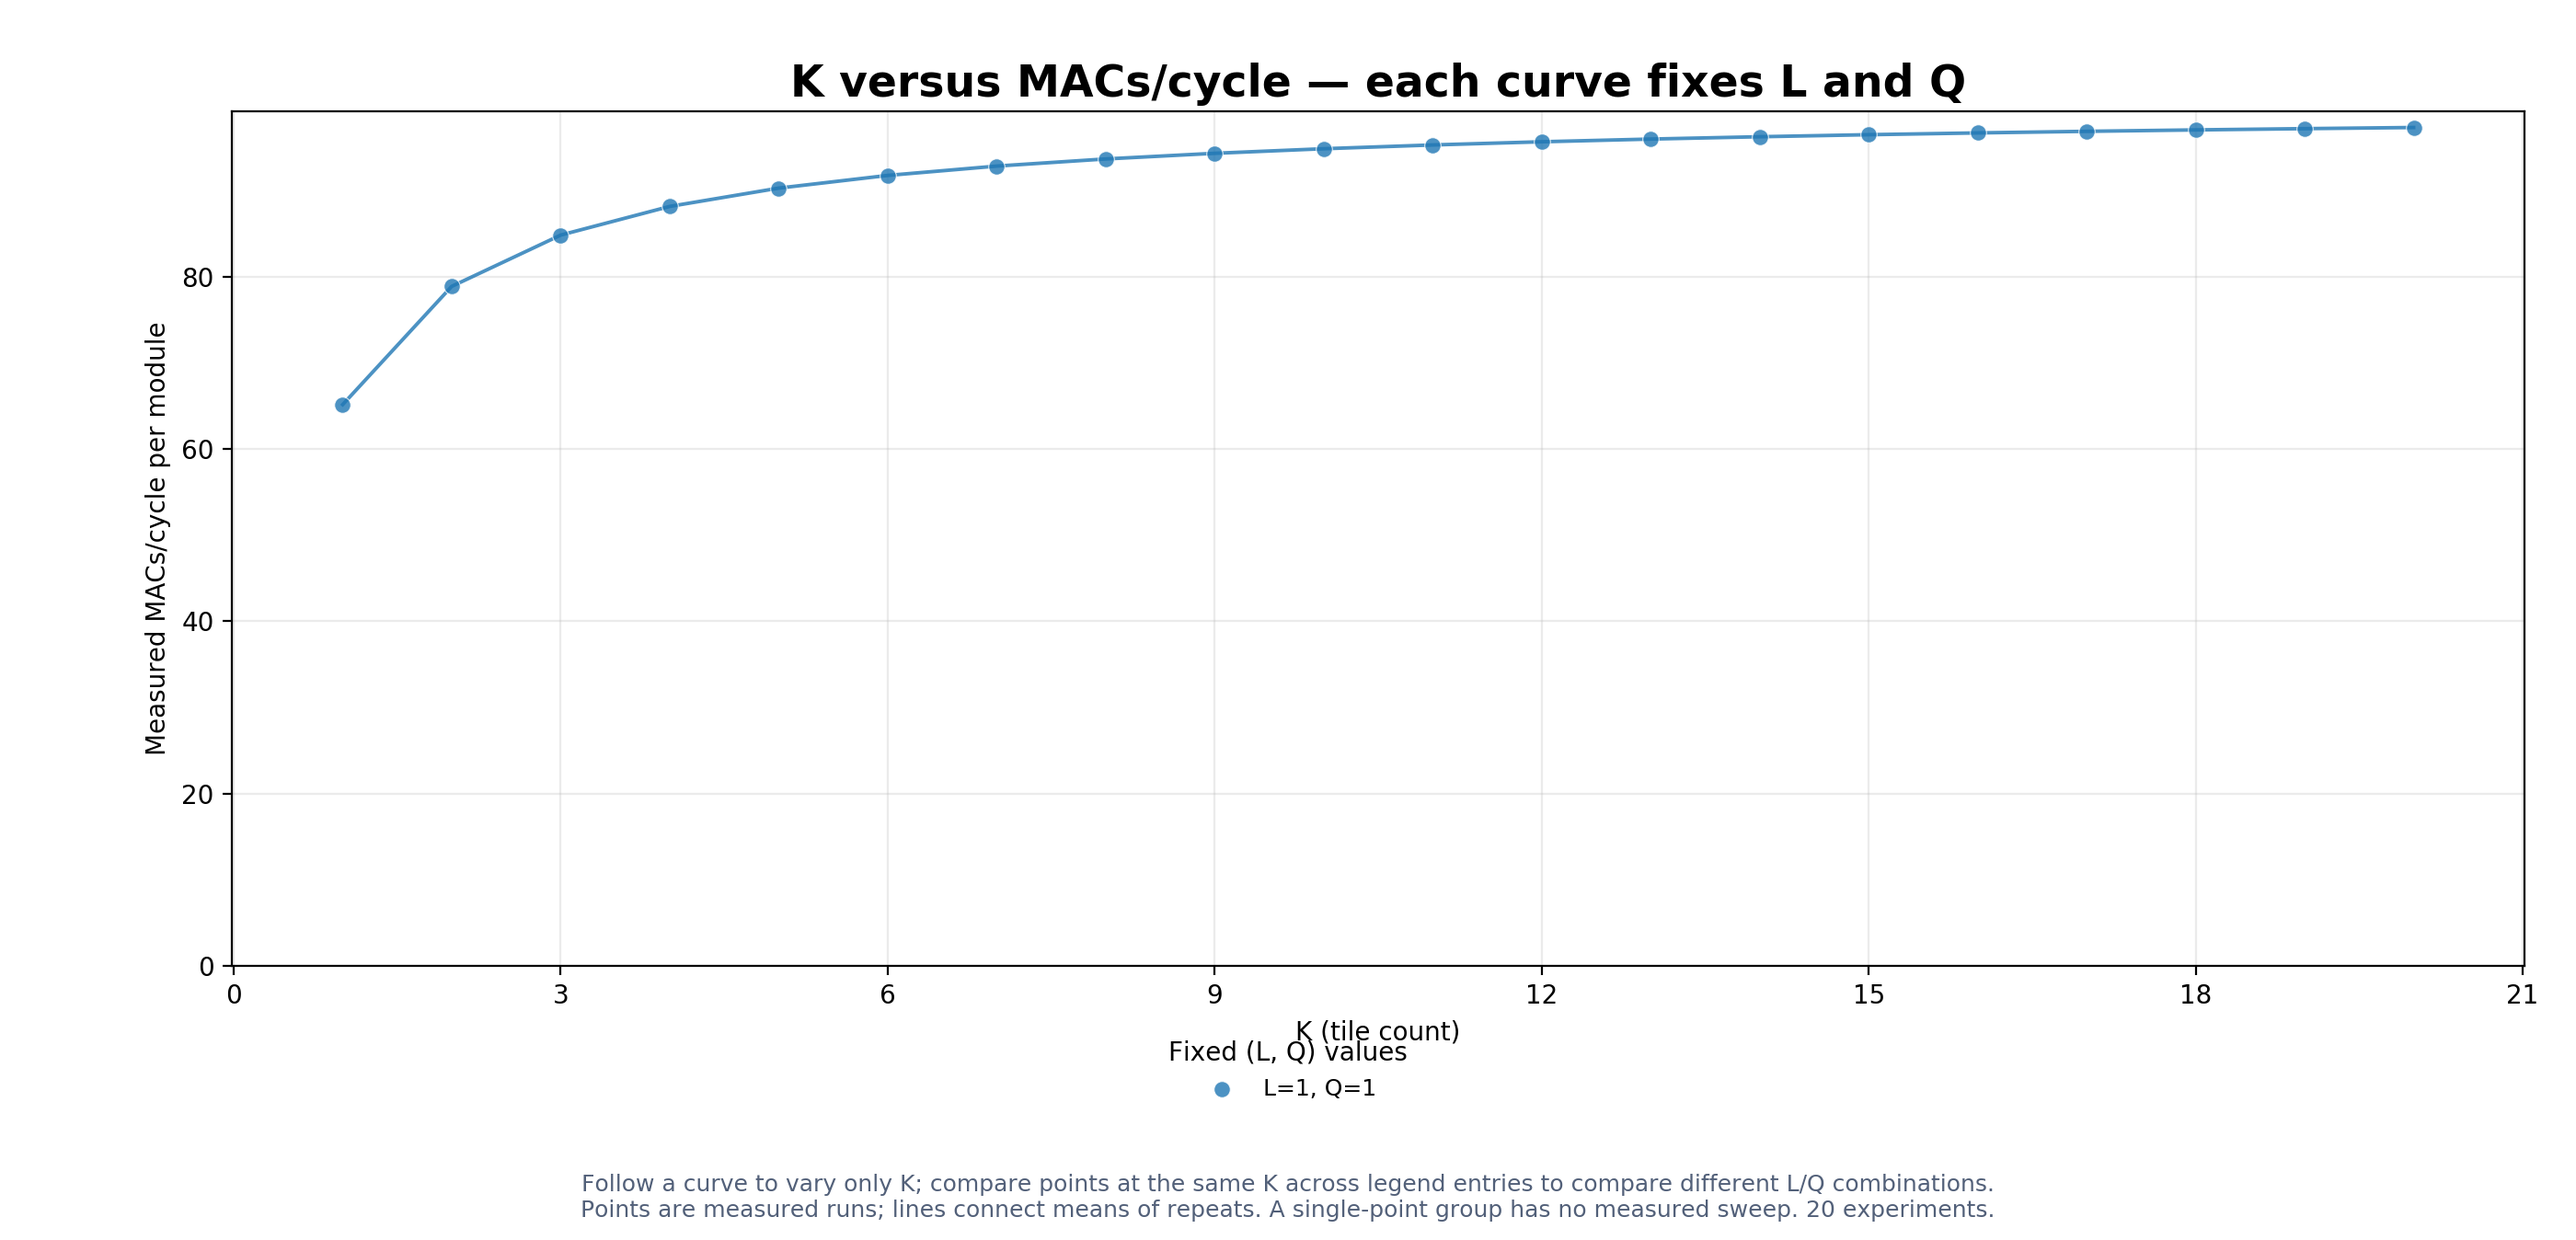
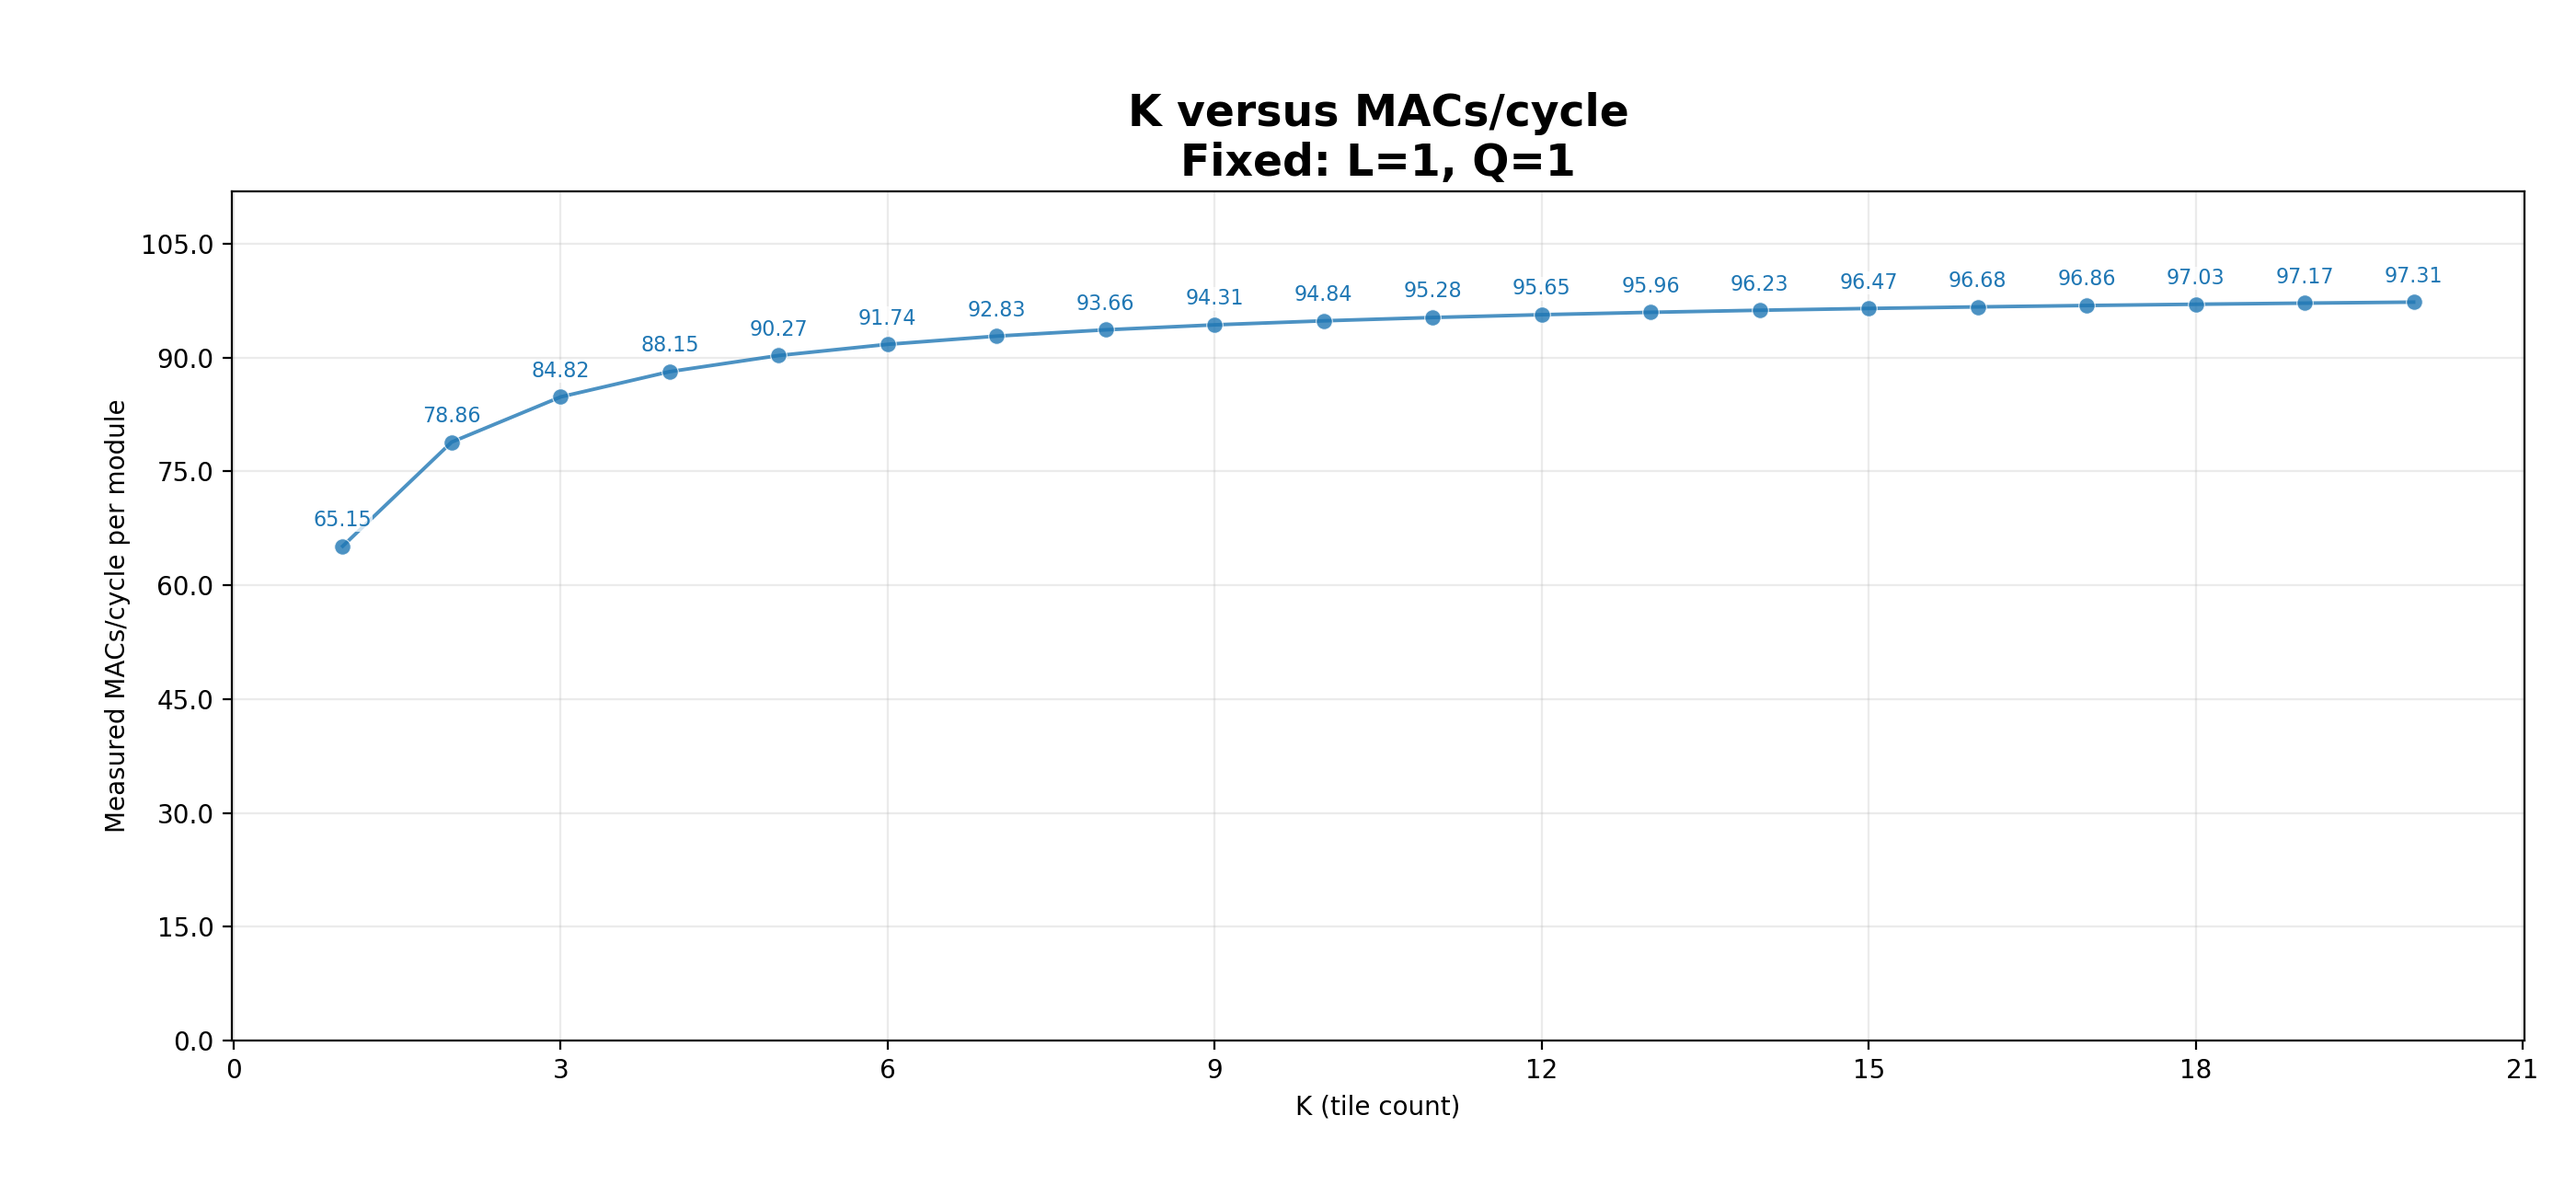
update readme file

diff --git a/timing_analysis/run_experiments.py b/timing_analysis/run_experiments.py
@@ -77,7 +77,7 @@ def plot_results(csv_path, output):
     import matplotlib
     matplotlib.use("Agg")
     import matplotlib.pyplot as plt
-    from matplotlib.ticker import MaxNLocator
+    from matplotlib.ticker import MaxNLocator, FormatStrFormatter
 
     with Path(csv_path).open(newline="") as source:
         reader = csv.DictReader(source)
@@ -104,11 +104,7 @@ def plot_results(csv_path, output):
         groups = defaultdict(list)
         for row in selected_rows:
             groups[tuple(row[name] for name in fixed)].append(row)
-        legend_columns = min(4, max(1, len(groups)))
-        legend_rows = (len(groups) + legend_columns - 1) // legend_columns
-        legend_height = legend_rows * 0.24
-        height = 6.5 + legend_height
-        fig, ax = plt.subplots(figsize=(14, height))
+        fig, ax = plt.subplots(figsize=(14, 6.5))
         palette = plt.get_cmap("tab20")
         if not selected_rows:
             ax.text(0.5, 0.5, "No completed experiments with {}=1 and {}=1".format(
@@ -133,26 +129,23 @@ def plot_results(csv_path, output):
                         color=color, linestyle=style, linewidth=1.4, alpha=0.8)
             ax.scatter(x_values, throughput, s=40, color=color, marker=marker,
                        alpha=0.8, edgecolors="white", linewidths=0.4, label=label, zorder=3)
+            for x_value, rate in zip(x_values, throughput):
+                ax.annotate("{:.2f}".format(rate), (x_value, rate), xytext=(0, 6),
+                            textcoords="offset points", ha="center", va="bottom",
+                            fontsize=8, color=color,
+                            bbox=dict(facecolor="white", edgecolor="none", alpha=0.75, pad=0.4))
         ax.set_xlabel("{} (tile count)".format(dimension.upper()))
         ax.set_ylabel("Measured MACs/cycle per module")
-        ax.set_title("{} versus MACs/cycle — each curve fixes {} and {}".format(
+        ax.set_title("{} versus MACs/cycle\nFixed: {}=1, {}=1".format(
             dimension.upper(), fixed[0].upper(), fixed[1].upper()), fontsize=17, weight="bold")
         ax.xaxis.set_major_locator(MaxNLocator(integer=True))
-        ax.set_ylim(bottom=0)
+        ax.yaxis.set_major_locator(MaxNLocator(nbins=8))
+        ax.yaxis.set_major_formatter(FormatStrFormatter("%.1f"))
+        ax.set_ylim(0, max((row["macs_per_module"] / row["elapsed_cycles"]
+                           for row in selected_rows), default=1) * 1.15)
         ax.grid(alpha=0.25)
         ax.set_axisbelow(True)
-        handles, labels = ax.get_legend_handles_labels()
-        fig.legend(handles, labels, loc="lower center", bbox_to_anchor=(0.5, 0.65 / height),
-                   ncol=legend_columns, fontsize=9, frameon=False,
-                   title="Fixed ({}, {}) values".format(fixed[0].upper(), fixed[1].upper()))
-        note = ("Follow a curve to vary only {0}; compare points at the same {0} across legend entries "
-                "to compare different {1}/{2} combinations.\n"
-                "Points are measured runs; lines connect means of repeats. "
-                "A single-point group has no measured sweep. {3} experiments.").format(
-                    dimension.upper(), fixed[0].upper(), fixed[1].upper(), len(selected_rows))
-        fig.text(0.5, 0.015, note, ha="center", va="bottom", fontsize=9, color="#526079")
-        fig.subplots_adjust(left=0.09, right=0.98, top=0.91,
-                            bottom=(legend_height + 1.25) / height)
+        fig.subplots_adjust(left=0.09, right=0.98, top=0.84, bottom=0.13)
         fig.savefig(str(destination), dpi=200, facecolor="white")
         plt.close(fig)
     fig, ax = plt.subplots(figsize=(11, 6))
@@ -163,6 +156,7 @@ def plot_results(csv_path, output):
         ("l", "#0d9488", "--", 3.2, "s", 8, 4),
         ("q", "#ea580c", ":", 1.8, "^", 4.5, 5),
     )
+    label_offsets = {"k": 12, "l": 24, "q": -12}
     for dimension, color, style, width, marker, marker_size, order in sweep_styles:
         fixed = tuple(name for name in dimensions if name != dimension)
         experiments = [row for row in rows if all(row[name] == 1 for name in fixed)]
@@ -182,24 +176,34 @@ def plot_results(csv_path, output):
                     dimension.upper(), fixed[0].upper(), fixed[1].upper()))
         ax.scatter(sizes, rates, edgecolors=color, facecolors="none", marker=marker,
                    s=marker_size ** 2, linewidths=1.4, zorder=order + 0.1)
+        for size, rate in zip(sizes, rates):
+            ax.annotate("{:.2f}".format(rate), (size, rate),
+                        xytext=(0, label_offsets[dimension]), textcoords="offset points",
+                        ha="center", va="center", fontsize=7, color=color,
+                        bbox=dict(facecolor="white", edgecolor="none", alpha=0.75, pad=0.3))
     # Keep older/custom CSV combinations visible without connecting unrelated runs.
     mixed = [row for row in rows if sum(row[name] != 1 for name in dimensions) > 1]
     if mixed:
-        ax.scatter([row["k"] * row["l"] * row["q"] for row in mixed],
-                   [row["macs_per_module"] / row["elapsed_cycles"] for row in mixed],
+        mixed_sizes = [row["k"] * row["l"] * row["q"] for row in mixed]
+        mixed_rates = [row["macs_per_module"] / row["elapsed_cycles"] for row in mixed]
+        ax.scatter(mixed_sizes, mixed_rates,
                    color="#64748b", marker="x", label="Other combinations")
+        for size, rate in zip(mixed_sizes, mixed_rates):
+            ax.annotate("{:.2f}".format(rate), (size, rate), xytext=(0, 8),
+                        textcoords="offset points", ha="center", va="bottom",
+                        fontsize=7, color="#64748b")
     ax.set_xlabel("Workload size (K × L × Q)")
     ax.set_ylabel("Measured MACs/cycle per module")
     ax.set_title("K × L × Q versus MACs/cycle", fontsize=17, weight="bold")
     ax.xaxis.set_major_locator(MaxNLocator(integer=True))
-    ax.set_ylim(bottom=0)
+    ax.yaxis.set_major_locator(MaxNLocator(nbins=8))
+    ax.yaxis.set_major_formatter(FormatStrFormatter("%.1f"))
+    all_rates = [row["macs_per_module"] / row["elapsed_cycles"] for row in rows]
+    ax.set_ylim(0, max(all_rates, default=1) * 1.15)
     ax.grid(alpha=0.25)
     ax.set_axisbelow(True)
     ax.legend(handlelength=4)
-    fig.text(0.5, 0.025, "Solid/dashed/dotted curves and nested hollow markers expose overlaps; values are not shifted.\n"
-             "The shared (1, 1, 1) baseline is used by all three sweep curves.",
-             ha="center", fontsize=9, color="#526079")
-    fig.tight_layout(rect=(0, 0.06, 1, 1))
+    fig.tight_layout()
     fig.savefig(str(outputs[-1]), dpi=200, facecolor="white")
     plt.close(fig)
     return outputs

diff --git a/timing_analysis/timing_analysis.py b/timing_analysis/timing_analysis.py
@@ -206,10 +206,6 @@ def plot_summary(path, summary):
         m, summary["macs"][m] / cycles, theoretical, summary["macs"][m] / cycles / theoretical)
         for m in modules]
     fig.text(.06, .130, "    |    ".join(comparisons), fontsize=11)
-    fig.text(.06, .098, "Notes", fontsize=10, weight="bold", color="#53657B")
-    fig.text(.06, .030,
-             "• The model excludes transfers into input/weight FIFOs and output-memory writes; measured cycles include them.",
-             fontsize=9, color="#53657B")
     fig.savefig(str(path), dpi=200, facecolor=fig.get_facecolor())
     plt.close(fig)
 

diff --git a/README.md b/README.md
@@ -73,3 +73,19 @@ to Preview the selected sizes without running simulations:
 ```bash
 python3 timing_analysis/run_experiments.py --dry-run
 ```
+
+### 7. Get synthesis results 
+#### Step 3
+```bash
+cd cleopatra_gf22
+make tech_init
+make synthesis
+```
+
+#### Step 2
+copy results files and name them 11_area_{f}.rpt, 11_timing_{f}.rpt, 11_area.rpt to folder Synthesis_resutls 
+
+#### Step 3
+```bash
+python3 Synthesis_results/synthesis_report.py
+```
